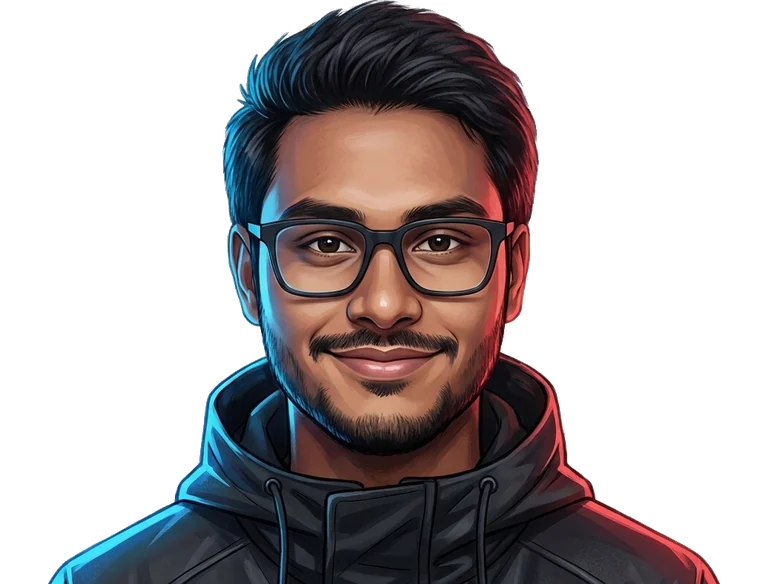
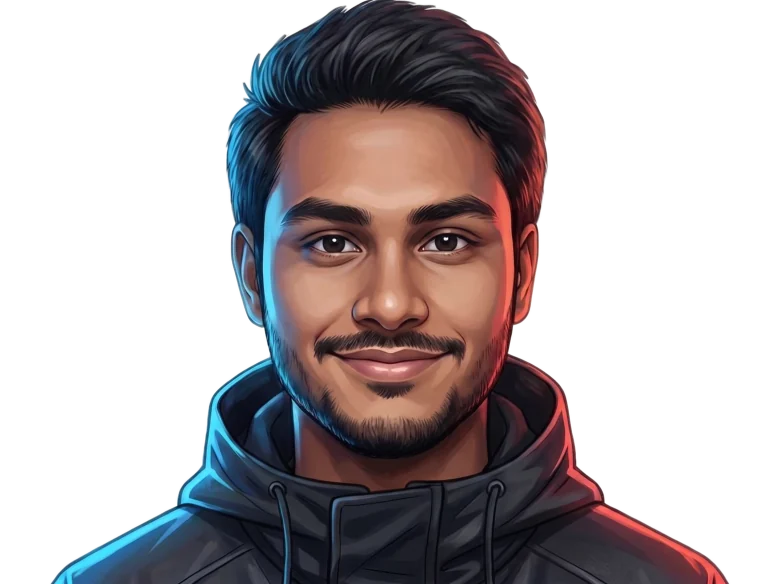
Update portrait and share card: remove glasses

diff --git a/index.html b/index.html
@@ -11,7 +11,7 @@
 <meta property="og:url" content="https://himanshuuem.github.io/">
 <meta property="og:title" content="Himanshu — ML for SIoT Security">
 <meta property="og:description" content="M.Tech (IT) at IIEST Shibpur. SIoT intrusion detection and trust scoring, reversible quantum arithmetic, AI agents.">
-<meta property="og:image" content="https://himanshuuem.github.io/img/og.jpg">
+<meta property="og:image" content="https://himanshuuem.github.io/img/og.jpg?v=2">
 <meta name="twitter:card" content="summary_large_image">
 <link rel="icon" href="img/favicon.svg" type="image/svg+xml">
 <link rel="preload" href="fonts/barlow-condensed-latin-800-normal.woff2" as="font" type="font/woff2" crossorigin>
@@ -235,7 +235,7 @@ footer{padding:28px 0 40px;font:12.5px var(--mono);color:var(--muted);text-align
       <p class="meta rise d4"><span>📍 Kolkata, India</span><span>🎓 IIEST Shibpur</span></p>
     </div>
     <div class="portrait rise d2">
-      <div class="frame"><img src="img/portrait.webp" width="760" height="584" alt="Illustrated portrait of Himanshu wearing glasses and a dark hoodie"></div>
+      <div class="frame"><img src="img/portrait.webp" width="760" height="584" alt="Illustrated portrait of Himanshu in a dark hoodie"></div>
       <span class="tag">@HIMANSHUUEM</span>
     </div>
   </div>
